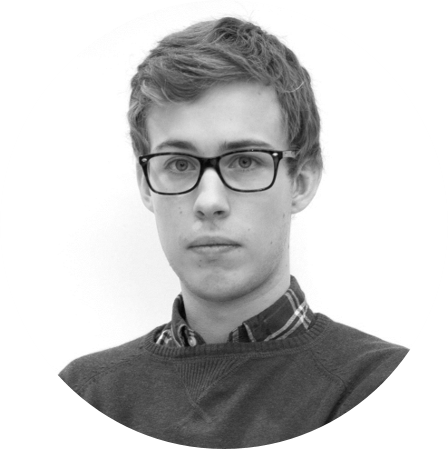
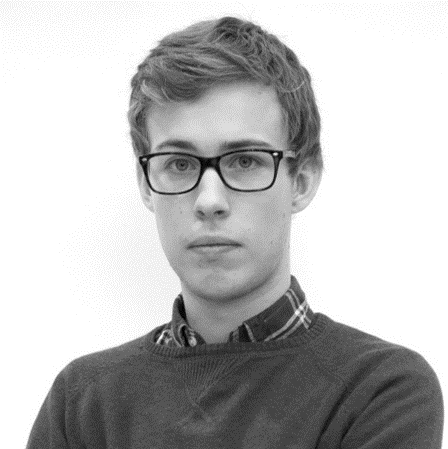
x

Changed region(s): [[0.0312, 0.7795, 1.0, 1.0], [0.625, 0.0935, 0.6562, 0.1247], [0.5, 0.0312, 0.5312, 0.0624]]

diff --git a/assets/css/main.css b/assets/css/main.css
@@ -734,7 +734,8 @@
 				display: block;
 				margin: 0 auto;
 				border-radius: 100%;
-				box-shadow: 0 0 0 1.5em #ffffff;
+				box-shadow: 0 0 0 0.2em #414f57;
+				-webkit-font-smoothing: antialiased;
 			}
 
 			#main .avatar:before {
